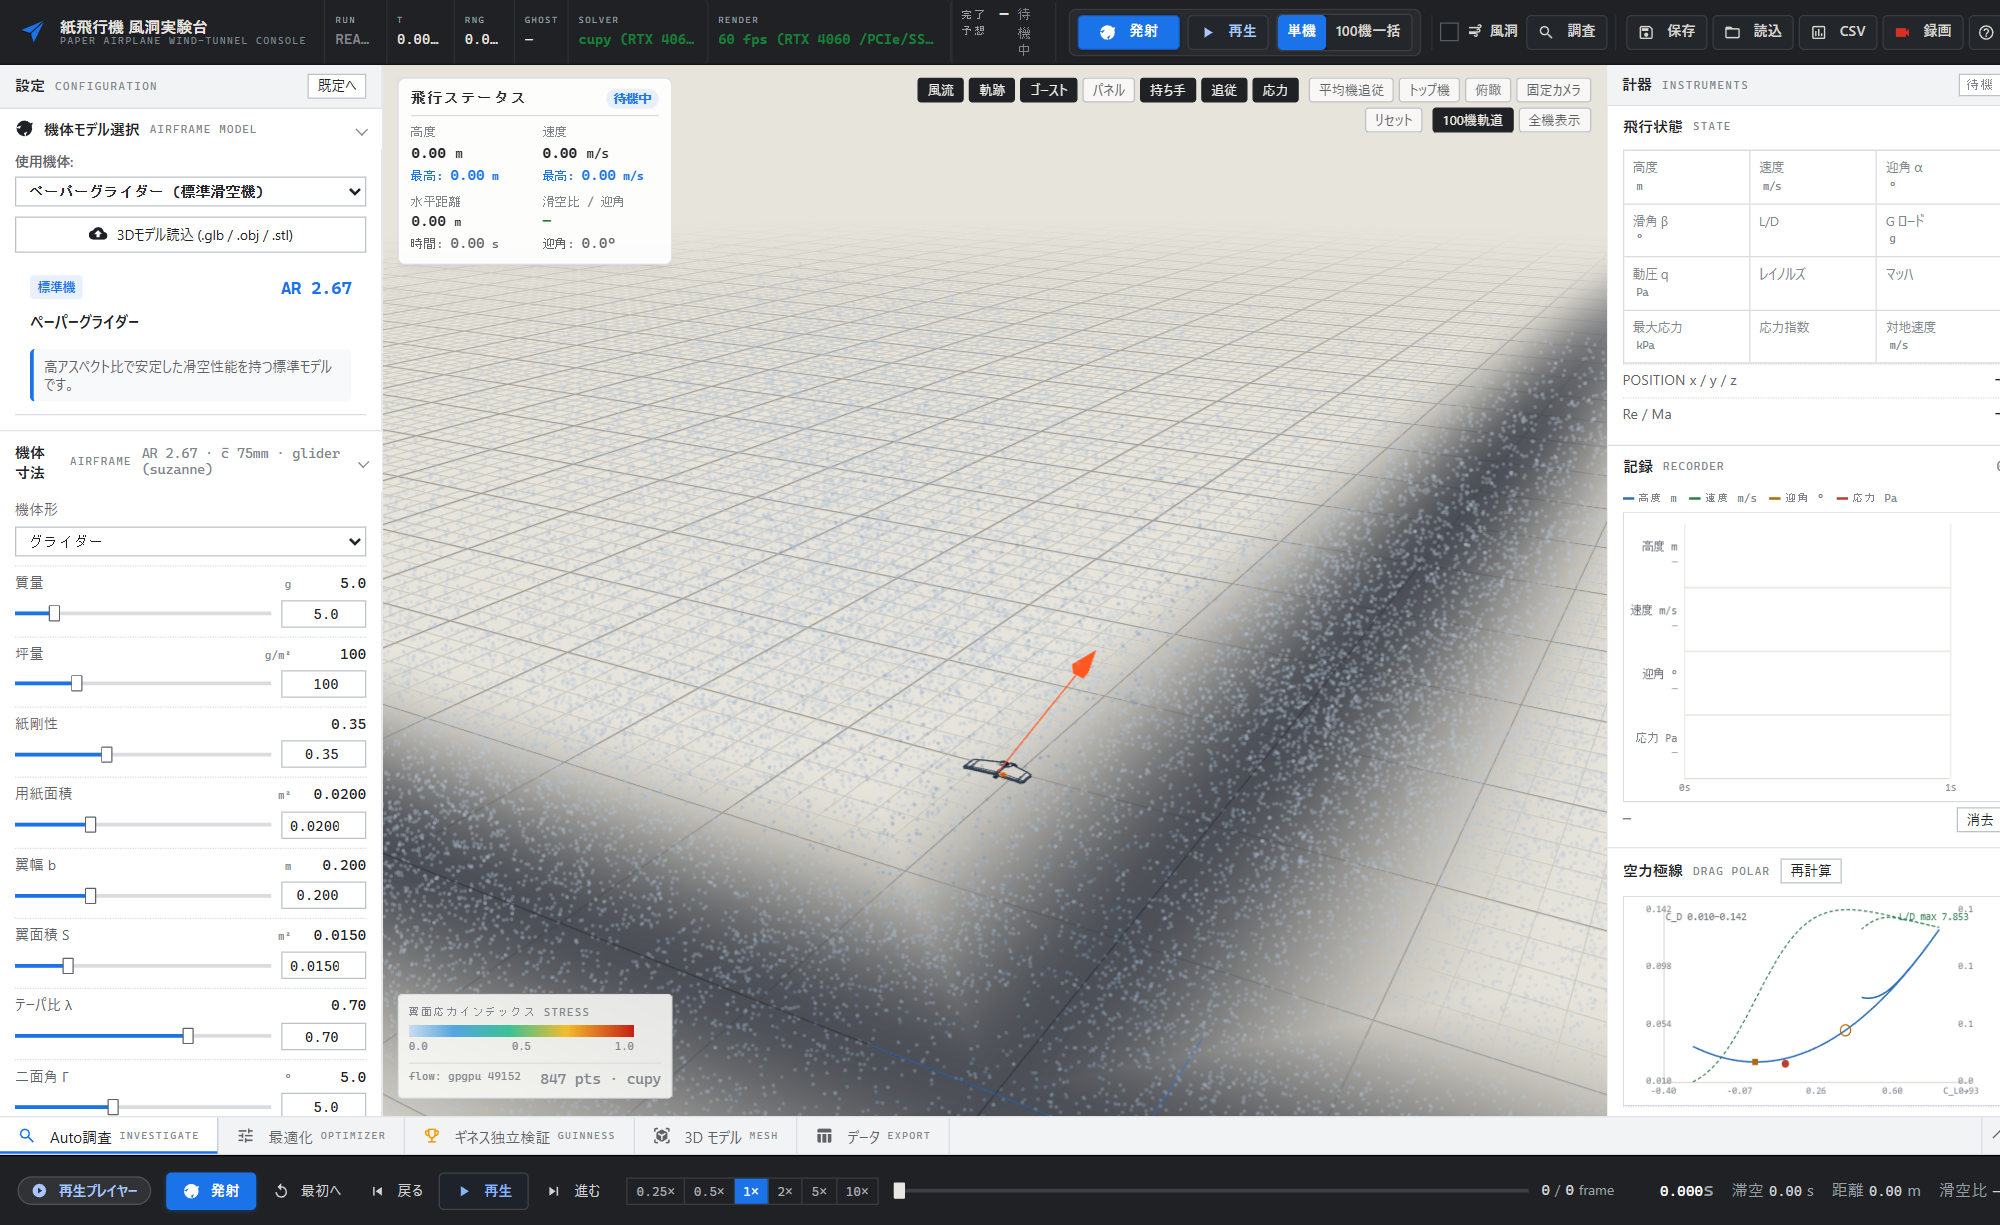
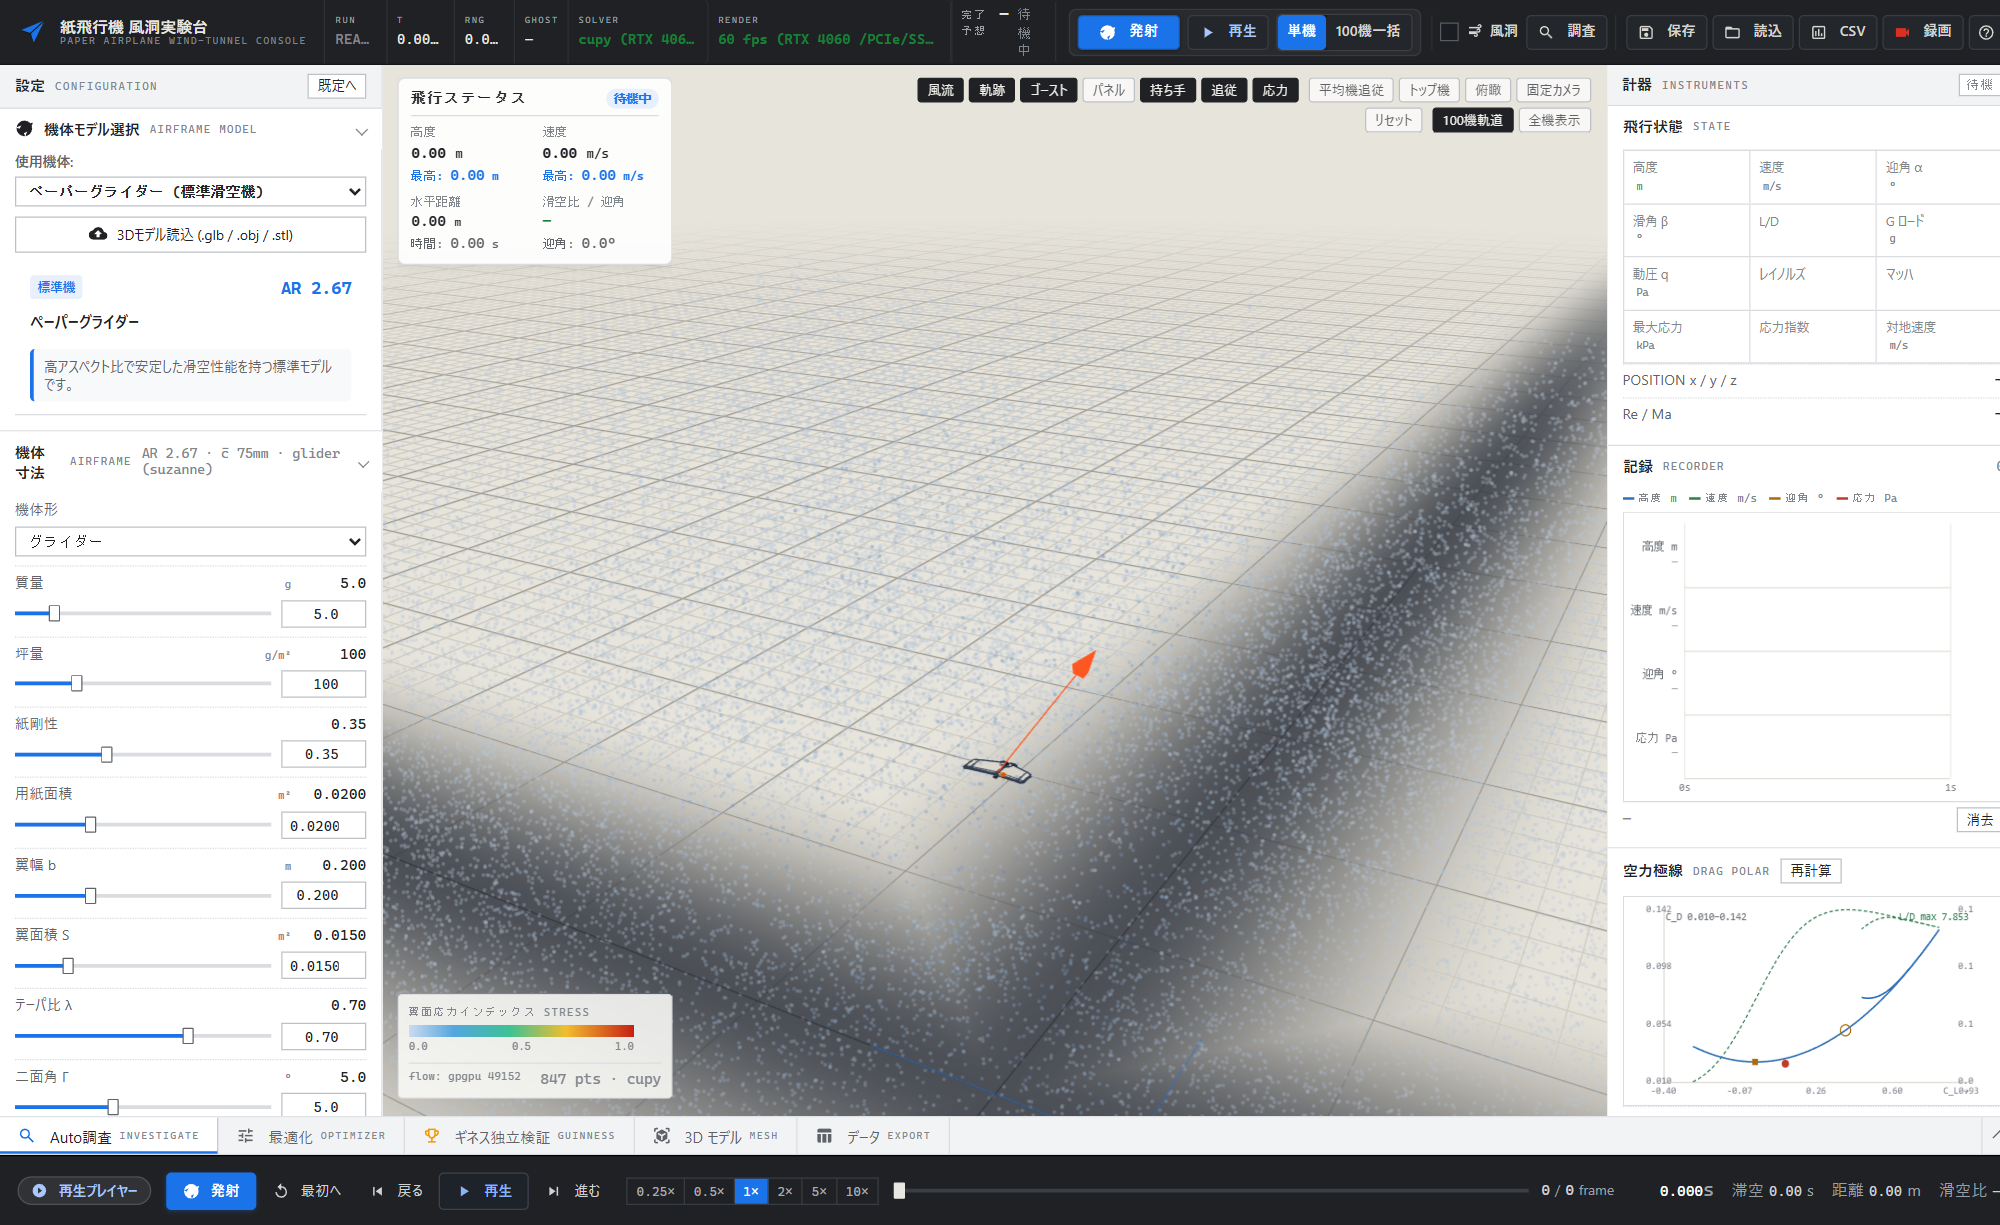
fix(docs): recapture screenshots without landing modal overlaying flight trajectory

Changed region(s): [[0.186, 0.5584, 0.682, 0.8996]]

diff --git a/tools/capture_ui.py b/tools/capture_ui.py
@@ -40,9 +40,28 @@ async def capture_all():
             # Wait until flight finish notification or recorder status updates
             await page.wait_for_selector(".toast:has-text('発射完了'), .flight-finished", timeout=25000)
             await asyncio.sleep(2.0)
+
+            # 着陸完了モーダルが表示されていたら閉じる（または非表示にする）
+            await page.evaluate("""() => {
+                const modal = document.getElementById('flight-result-modal');
+                if (modal) {
+                    modal.hidden = true;
+                    modal.style.display = 'none';
+                }
+                // 飛行の美しい滑空中間点（50%〜70%位置）にシークして飛行軌跡と機体を美しく表示
+                if (window.app && window.app.transport && window.app.transport.history) {
+                    const hist = window.app.transport.history;
+                    if (hist.length > 0) {
+                        const midIndex = Math.floor(hist.length * 0.6);
+                        window.app.transport.seek(midIndex);
+                    }
+                }
+            }""")
+            await asyncio.sleep(1.0)
+
             path_traj = os.path.join(out_dir, "02_flight_trajectory.png")
             await page.screenshot(path=path_traj)
-            print("Saved 02_flight_trajectory.png")
+            print("Saved 02_flight_trajectory.png (landing modal closed, mid-flight trajectory)")
 
         # 3. Wind tunnel toggle
         print("3. Toggling wind tunnel...")
